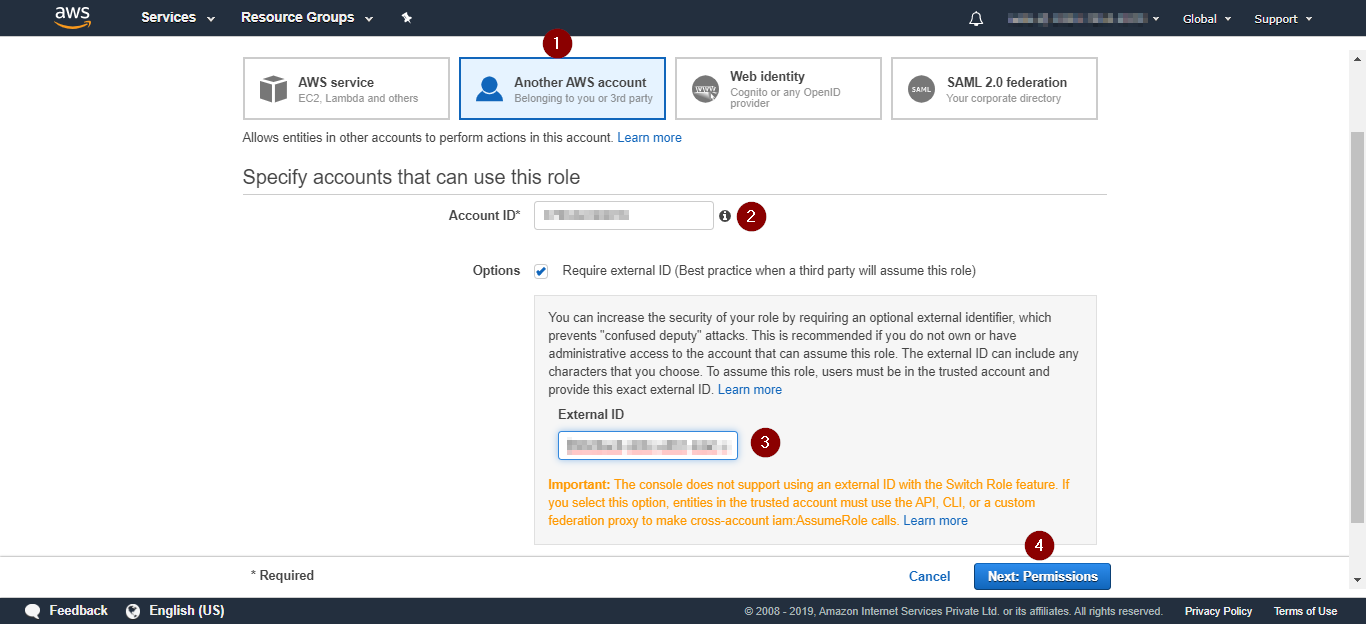
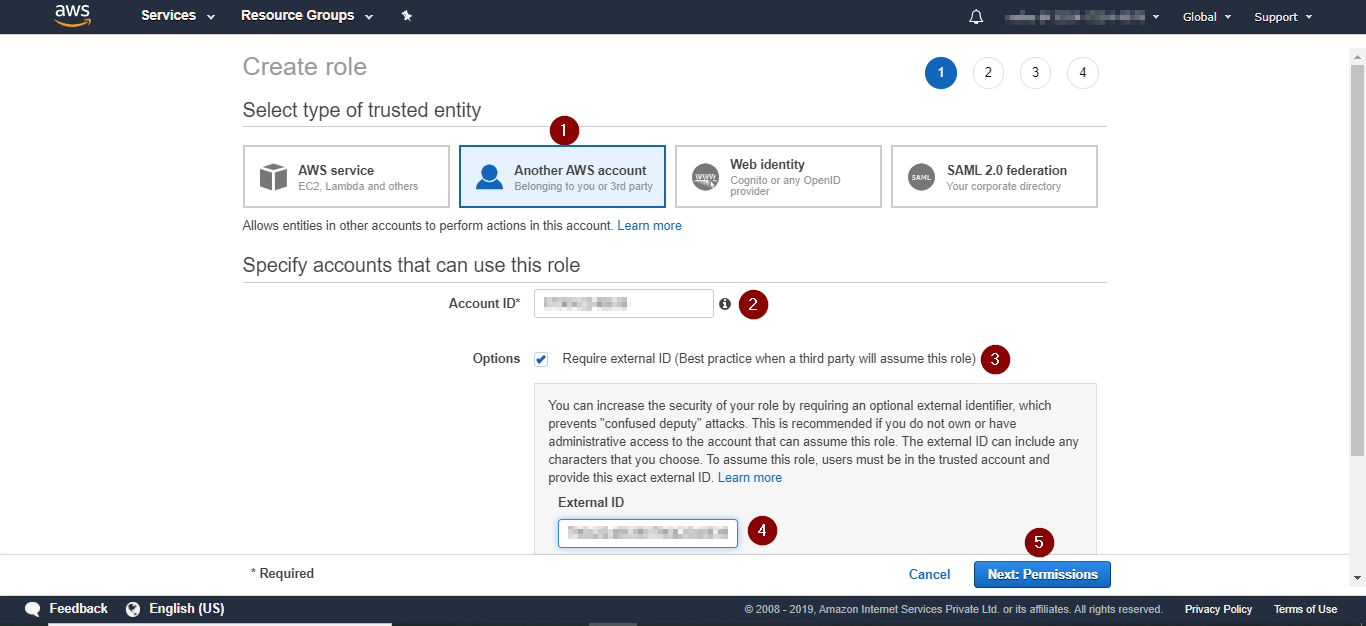
Task 12538 : Updated AWS, Azure and Office365 onboarding docs

diff --git a/docs/onboardingGuide/azureSubscriptions.md b/docs/onboardingGuide/azureSubscriptions.md
@@ -401,7 +401,7 @@ not assigned.
 Microsoft graph permissions are needed to collect data for Azure AD related
 security policies listed below.
 
-| Policy-Id | Policy Name   | AAD Entity Used for Evaluating Misconfiguration  | Data Stored in Cloudneeti Data Store   |
+| Policy Id | Policy Title   | AAD Entity Used for Evaluating Misconfiguration  | Data Stored in Cloudneeti Data Store   |
 |-----------|---------------|--------------------------------------------------|----------------------------------------|
 | 1800.1    | Ensure that AD Application Keys are Rotated Before They Expire   |*passwordCredentials*<br><br>Metadata information contained within the data entity will be key start-date, end-date, and expiry policies. No actual values are retrievable.| <ul><li>AD Application Name</li><li>AD Application ID</li><li>Expiry Date</li></ul> |       
 | 1100.11   | Ensure that the Service Principal Certificate is Renewed Before It Expires | *keyCredentials*<br><br>Metadata information contained within the data involves start-date and end-date. Refer to documentation [here](https://docs.microsoft.com/en-us/powershell/module/azuread/new-azureadserviceprincipalkeycredential?view=azureadps-2.0).| <ul><li>AD Application Name</li><li>AD Application ID</li><li>Expiry Date</li></ul> |
@@ -419,7 +419,7 @@ from Azure subscriptions.
 Backup Reader role access is needed to collect data for security policies listed
 below.
 
-| Policy-Id  | Policy Name   | Category               |
+| Policy Id  | Policy Title   | Category               |
 |------------|---------------|------------------------|
 | 1700.10       | Ensure that Backup feature is configured for App Service deployed on Standard and above App Service Plan   | Business continuity and DR |
 | 1700.11       | Ensure that Backup feature is configured for API Apps deployed on Standard and above App Service Plan      | Business continuity and DR |
@@ -431,7 +431,7 @@ below.
 Website Contributor role access is needed to collect data for security policies
 listed below.
 
-| Policy ID     | Policy Name                                                                          | Category                              |
+| Policy Id     | Policy Title                                                                          | Category                              |
 |---------------|--------------------------------------------------------------------------------------|---------------------------------------|
 | 1900.42       | Ensure that 'App Insights' are configured for Azure Web Apps                         | Azure - Compute (PaaS and Serverless) |
 | 1900.43       | Ensure that WEBSITE_LOAD_CERTIFICATES parameter is not set to '\*' for Mobile Apps   | Azure - Compute (PaaS and Serverless) |
@@ -454,7 +454,7 @@ listed below.
 Storage Account Contributor role or Storage Account Key Operator Servic role access is needed to collect data for security policies
 listed below.
 
-| Policy ID     | Policy Name                                                                          | Category                              |
+| Policy Id     | Policy Title                                                                          | Category                              |
 |---------------|--------------------------------------------------------------------------------------|---------------------------------------|
 | 1600.13       | Ensure that 'Public access level' is set to Private for Blob Containers                         | Storage Accounts |
 
@@ -463,7 +463,7 @@ listed below.
 Special permission on key vaults is needed to collect data for security policies
 listed below.
 
-| Policy-Id     | Policy Name                                                      | Category       |
+| Policy Id     | Policy Title                                                      | Category       |
 |---------------|------------------------------------------------------------------|----------------|
 | 1800.2        | Ensure that the expiry date is set on all Secrets in a Key Vault | Key Management |
 

diff --git a/docs/onboardingGuide/onboardingOffice365Subscription.md b/docs/onboardingGuide/onboardingOffice365Subscription.md
@@ -568,7 +568,7 @@ configuration is not done.
 ### Micorosft graph permission - DeviceManagementConfiguration.Read.All
 Microsoft graph permission DeviceManagementConfiguration.Read.All is required to collect data for device related security policies listed below.
 
-| **Policy-Id** | **Policy Name**                                                                                                                                                    | **Category**                     |
+| **Policy Id** | **Policy Title**                                                                                                                                                    | **Category**                     |
 |---------------|--------------------------------------------------------------------------------------------------------------------------------------------------------------------|----------------------------------|
 | M300.1        | 1. Ensure that mobile devices require complex passwords with atleast two character sets to prevent brute force attacks                                                                                      | Device         |
 | M300.2          | 2. Ensure that mobile device encryption is enabled to prevent unauthorized access to mobile data                                                                                      | Device         |
@@ -590,7 +590,7 @@ available in the Center for Internet Security (CIS) Microsoft 365 benchmark
 (Reference
 [here](https://www.cloudneeti.com/2019/01/assure-microsoft-365-security-and-compliance-with-cloudneeti/)).
 
-| **Policy-Id** | **Policy Name**                                                                                                                                                    | **Category**                     |
+| **Policy Id** | **Policy Title**                                                                                                                                                    | **Category**                     |
 |---------------|--------------------------------------------------------------------------------------------------------------------------------------------------------------------|----------------------------------|
 | M500.01         | 1. (L1) Ensure modern authentication for SharePoint applications is required                                                                                       | Account / Authentication         |
 | M600.01           | 2. (L2) Ensure calendar details sharing with external users is disabled                                                                                            | Application Permissions          |

diff --git a/docs/onboardingGuide/amazonWebServiceAccounts.md b/docs/onboardingGuide/amazonWebServiceAccounts.md
@@ -31,8 +31,14 @@ Cloudneeti application **License Admin** is assigned to an individual in the cus
 
 AWS **Administrator** role is required for granting Cloudneeti application access rights to AWS account(s). The administrator must have enough permissions to create a role as a trusted entity with the [SecurityAudit access policy.](https://docs.aws.amazon.com/IAM/latest/UserGuide/access_policies_job-functions.html#jf_security-auditor)
 
-### Cloudneeti AWS account id
-Cloudneeti AWS account id can be retrived from email notification recieved by License Admin on License creation sent by Cloudneeti Notification Bot. 
+### Collect information
+
+Information can be retrived from email notification recieved by License Admin on License creation sent by Cloudneeti Notification Bot
+
+#### Cloudneeti AWS account id (1)
+
+#### License id (2) to be added as **External Id** in [step 1](.././amazonWebServiceAccounts/#step-1-create-an-aws-role-for-cloudneeti-manually-or-using-automated-script) 
+
 
 ![AWS Portal](.././images/amazonWebServiceAccounts/Welcome_Email.png#thumbnail)
 
@@ -55,23 +61,25 @@ Login to [AWS portal](https://console.aws.amazon.com/) with AWS **Administrator*
 
 4.	Select **Another AWS account** (1) and enter Cloudneeti's AWS account ID (2)
 
-5.  Enter the license id as **External ID** (3)
+5.  Select **Options** for Require external ID (Best practice when a third party will assume this role) (3)
 
-6.	Click **Next: Permissions** (4)
+6.  Enter the license id as **External ID** (4)
+
+7.	Click **Next: Permissions** (5)
 
      ![Activate License](.././images/amazonWebServiceAccounts/Another_AWS_Account_ExternalId.png#thumbnail)
 
-7.	Select policy name **SecurityAudit**
+8.	Select policy name **SecurityAudit**
 
-8.	Click **Next**
+9.	Click **Next**
 
     ![Create Role](.././images/amazonWebServiceAccounts/Attatch_policies.png#thumbnail)
 
-9.	Click **Next: Tags**
+10.	Click **Next: Tags**
 
-10.	Enter **Role Name** (1), the same role name should be added while creating an AWS Cloud Account in Cloudneeti.
+11.	Enter **Role Name** (1), the same role name should be added while creating an AWS Cloud Account in Cloudneeti.
 
-11.	Click on **Create role** (2)
+12.	Click on **Create role** (2)
      ![Create Role](.././images/amazonWebServiceAccounts/Role_Information.png#thumbnail)
 
 An AWS role will be created in the customer's account to mark Cloudneeti's account as a trusted entity with the SecurityAudit access policy.
